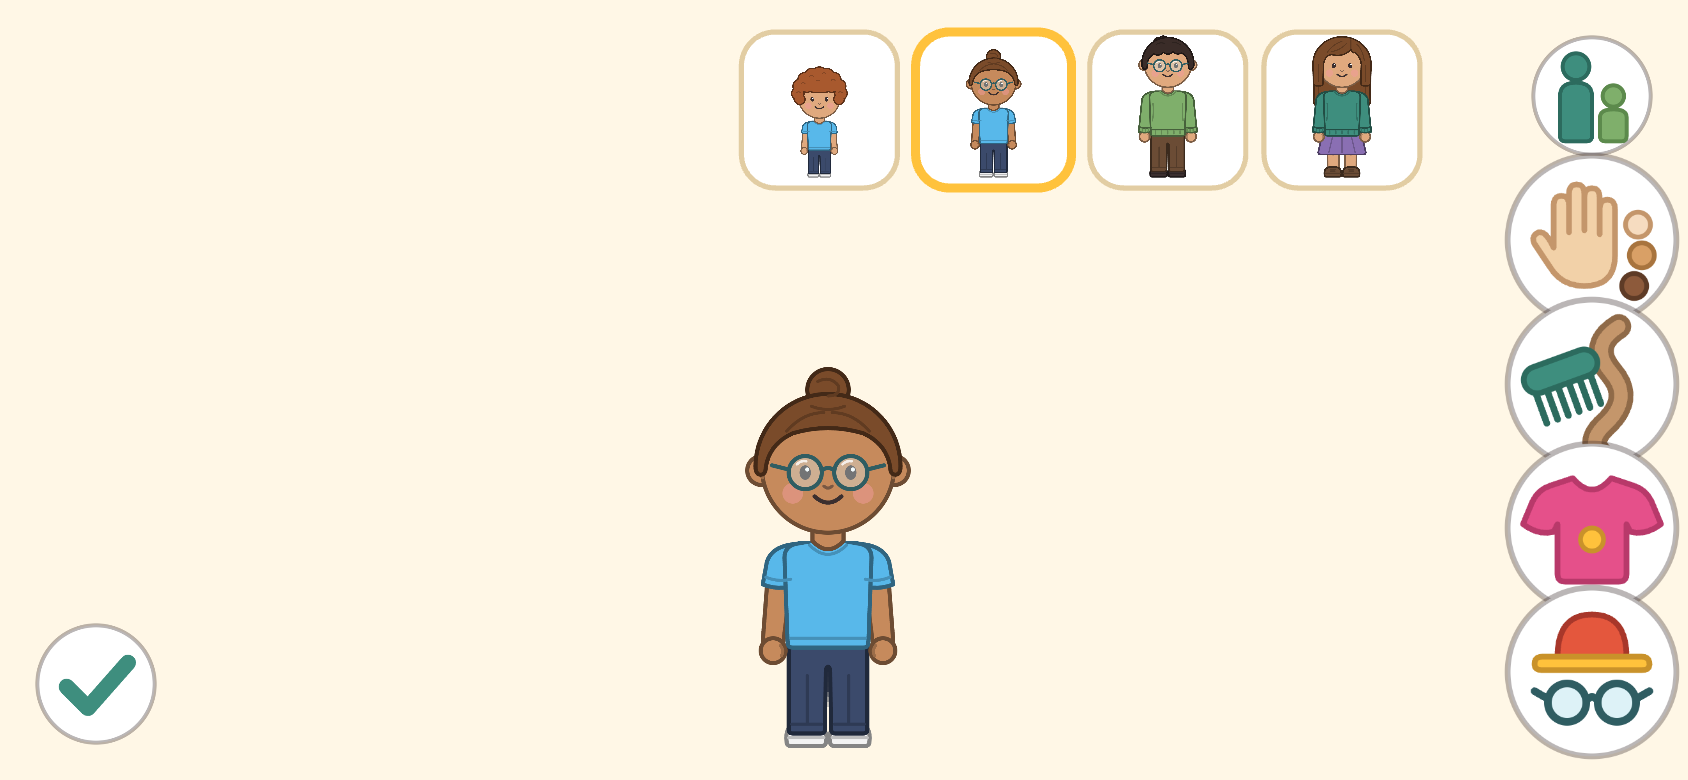
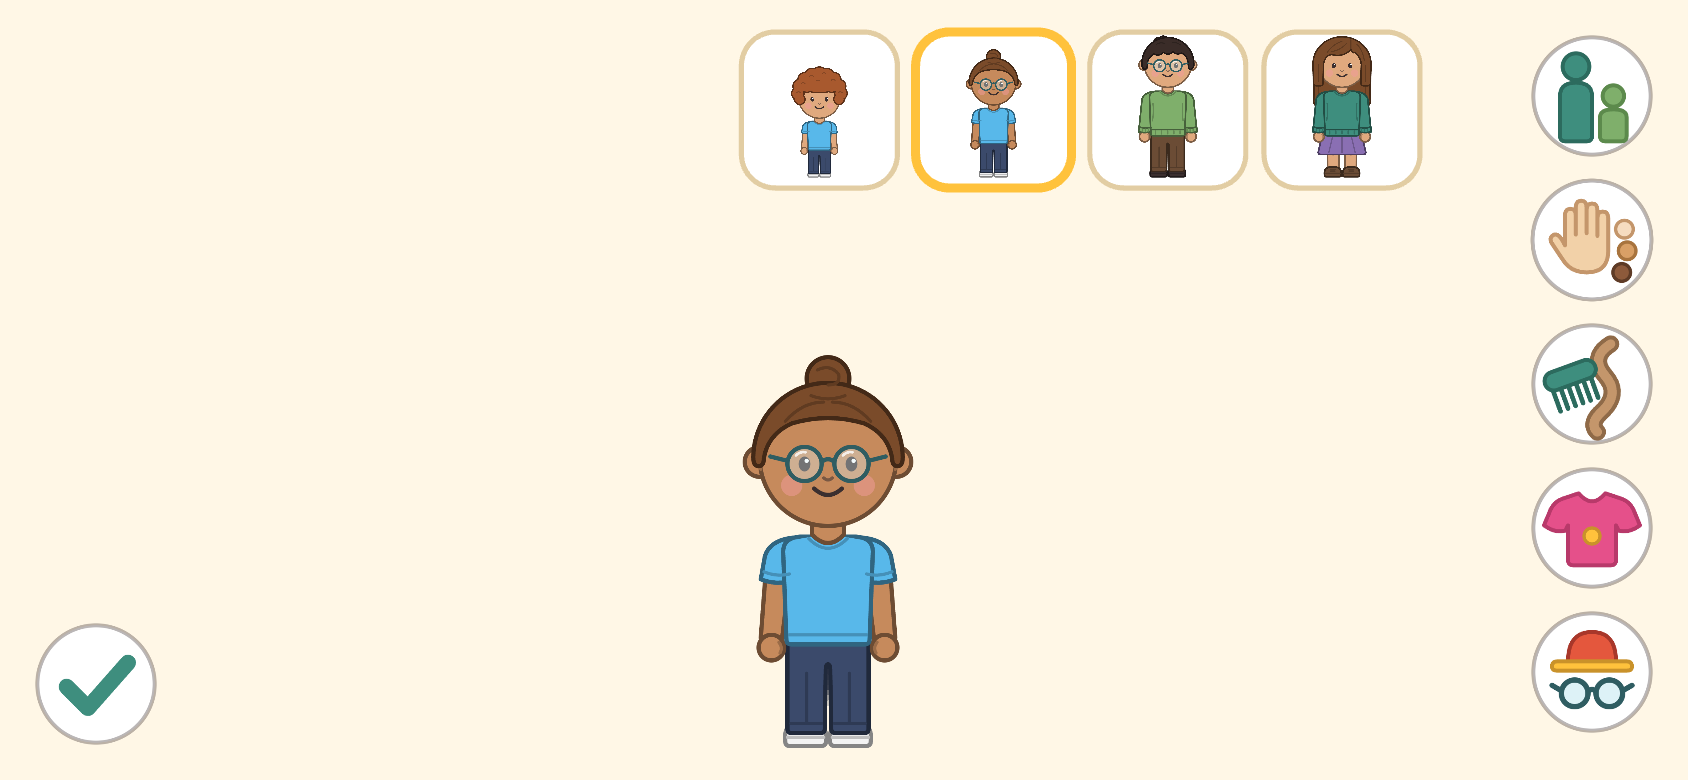
Creator: keep fitted button size after a press

Changed region(s): [[0.8934, 0.1846, 1.0, 0.9846], [0.4313, 0.4615, 0.5545, 0.8615]]

diff --git a/src/ui/Hud.ts b/src/ui/Hud.ts
@@ -15,15 +15,18 @@ export function makeButton(art: string, size: number, onPress: () => void): Cont
   icon.anchor.set(0.5);
   icon.width = size;
   icon.height = size;
+  // The press bounce runs on an inner layer, so a layout can still scale the button itself.
+  const inner = new Container();
+  inner.addChild(icon);
   const button = new Container();
-  button.addChild(icon);
+  button.addChild(inner);
   button.eventMode = 'static';
   button.cursor = 'pointer';
   button.hitArea = new Rectangle(-size / 2, -size / 2, size, size);
   button.on('pointerdown', (event) => {
     event.stopPropagation();
-    button.scale.set(0.85);
-    tween(button.scale, { x: 1, y: 1 }, 180, easeOutBack);
+    inner.scale.set(0.85);
+    tween(inner.scale, { x: 1, y: 1 }, 180, easeOutBack);
     onPress();
   });
   return button;
